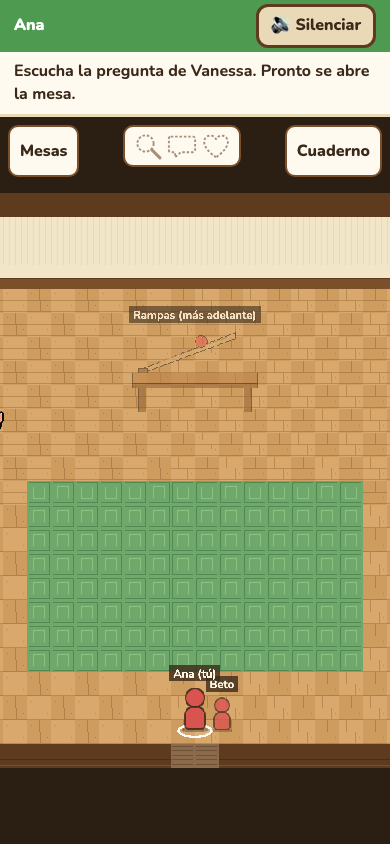
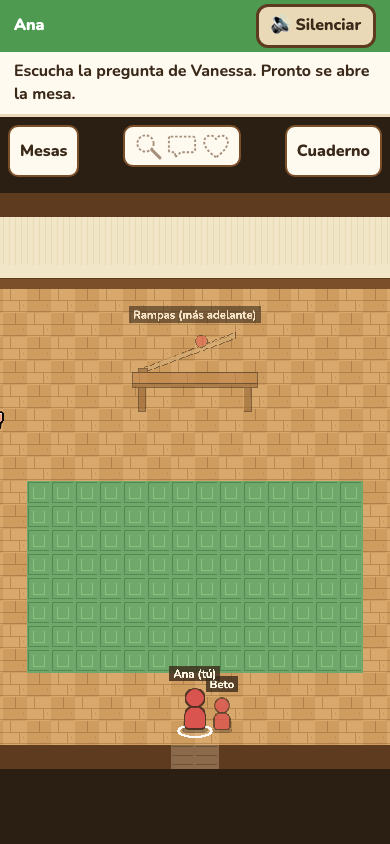
Vanessa también hace la actividad de la mesa abierta, sin lag en el telescopio
- Con una mesa abierta, la consola ofrece bajo la pregunta los mismos controles que los
  celulares (linterna, inclinación y soltar la pelota, flechas, aumentos y arrastre del visor).
- Es el experimento propio de Vanessa, local a la consola, con las reglas del dominio
  compartido y el reloj de la sala: no cuenta en el contador, no va al cuaderno y no toca
  el estado de nadie. Empieza de cero en cada mesa y desaparece al conversar.
- Corrige el lag del observatorio en la proyección: la escena dibujaba solo la vista ya
  registrada (cada ~0,8 s) en lugar de la vista local que se mueve al instante.

diff --git a/src/app/useVanessaTable.test.tsx b/src/app/useVanessaTable.test.tsx
@@ -1,0 +1,72 @@
+// @vitest-environment jsdom
+import { act, renderHook } from "@testing-library/react";
+import { describe, expect, it } from "vitest";
+import type { RampsActivityConfig } from "../../shared/contracts/config";
+import type { AdventureState } from "../../shared/contracts/state";
+import { rampDurationMs } from "../../shared/domain/models";
+import { CLOSE_ZOOM, TELESCOPE_TARGETS } from "../../shared/domain/telescope";
+import { bundle } from "../../shared/testing/drive";
+import { enEtapa, mesaAbierta } from "../testing/clientState";
+import { useVanessaTable } from "./useVanessaTable";
+
+const montar = (adv: AdventureState) => renderHook(({ a }) => useVanessaTable(a, bundle), { initialProps: { a: adv } });
+
+describe("Vanessa explora la mesa abierta en la proyección", () => {
+  it("fuera de la exploración no hay mesa que probar", () => {
+    for (const etapa of ["welcome", "preparation", "conversation", "closing"] as const) {
+      const { result } = montar(enEtapa(etapa).room.adventure);
+      expect(result.current.participant, etapa).toBeNull();
+      expect(result.current.act({ type: "shadows.sample", distanceCm: 20 }, 0).ok, etapa).toBe(false);
+    }
+  });
+
+  it("en Sombras registra sus posiciones con las reglas del juego, sin tocar la sala ni el contador", () => {
+    const d = mesaAbierta(0);
+    const antes = JSON.stringify(d.room);
+    const { result } = montar(d.room.adventure);
+    expect(result.current.participant!.view).toEqual({ kind: "activity", activityId: "sombras" });
+    act(() => void result.current.act({ type: "shadows.sample", distanceCm: 20 }, 1000));
+    act(() => void result.current.act({ type: "shadows.sample", distanceCm: 50 }, 2000));
+    const st = result.current.participant!.activities.sombras!;
+    expect(st.type === "shadows" && st.samples.map((s) => [s.distanceCm, s.counts])).toEqual([[20, true], [50, true]]);
+    expect(JSON.stringify(d.room)).toBe(antes); // la sala no cambia: es un experimento local de la consola
+    expect(result.current.act({ type: "shadows.sample", distanceCm: 500 }, 3000)).toMatchObject({ ok: false }); // mismas validaciones
+  });
+
+  it("en Rampas la pelota rueda con el reloj de la sala y la prueba termina al llegar abajo", () => {
+    const { result } = montar(mesaAbierta(1).room.adventure);
+    act(() => void result.current.act({ type: "ramps.trial.start", angleDeg: 20 }, 10_000));
+    const ramps = () => result.current.participant!.activities.rampas as { trials: Array<{ state: string }> };
+    expect(ramps().trials.map((t) => t.state)).toEqual(["running"]);
+    expect(result.current.act({ type: "ramps.trial.start", angleDeg: 25 }, 10_100)).toMatchObject({ ok: false }); // espera a que termine
+    const e = (bundle.config.activities.rampas as RampsActivityConfig).experiment;
+    const fin = 10_000 + rampDurationMs(20, e.lengthMeters, e.visualTimeScale);
+    act(() => result.current.settle(fin - 50));
+    expect(ramps().trials.map((t) => t.state)).toEqual(["running"]);
+    act(() => result.current.settle(fin + 50));
+    expect(ramps().trials.map((t) => t.state)).toEqual(["finished"]);
+  });
+
+  it("en El observatorio registra la Luna con aumento; no camina ni entra al inventor", () => {
+    const { result } = montar(mesaAbierta(2).room.adventure);
+    const { moon } = TELESCOPE_TARGETS;
+    act(() => void result.current.act({ type: "telescope.aim", x: moon.x, y: moon.y, zoom: CLOSE_ZOOM }, 1000));
+    expect((result.current.participant!.activities.cajas as { observed: string[] }).observed).toEqual(["moon"]);
+    expect(result.current.act({ type: "player.moveTo", target: { x: 600, y: 450 } }, 1000)).toMatchObject({ ok: false });
+    expect(result.current.act({ type: "adventure.returnToMap" }, 1000)).toMatchObject({ ok: false });
+  });
+
+  it("al conversar desaparece, y la mesa siguiente empieza desde su estado inicial", () => {
+    const d = mesaAbierta(0);
+    const { result, rerender } = montar(d.room.adventure);
+    act(() => void result.current.act({ type: "shadows.sample", distanceCm: 20 }, 1000));
+    d.must(d.admin({ type: "round.converse", withPending: true }), "conversar");
+    rerender({ a: d.room.adventure });
+    expect(result.current.participant).toBeNull();
+    d.must(d.admin({ type: "round.next" }), "siguiente");
+    d.must(d.admin({ type: "round.open" }), "abrir rampas");
+    rerender({ a: d.room.adventure });
+    expect(result.current.participant!.view).toEqual({ kind: "activity", activityId: "rampas" });
+    expect(Object.keys(result.current.participant!.activities)).toEqual(["rampas"]);
+  });
+});

diff --git a/src/app/useVanessaTable.ts b/src/app/useVanessaTable.ts
@@ -1,0 +1,58 @@
+import { useCallback, useEffect, useMemo, useState } from "react";
+import type { CommandResult, ParticipantAction } from "../../shared/contracts/actions";
+import type { ProjectBundle } from "../../shared/config/validateProject";
+import type { AdventureState, ParticipantState, RoomState } from "../../shared/contracts/state";
+import { reduceParticipant, settleTrials } from "../../shared/domain/participant";
+import { tableShowcase } from "./tableShowcase";
+
+/** Identidad de la persona ficticia con la que Vanessa explora: nunca coincide con la de nadie de la sala. */
+const VANESSA = "vanessa:proyeccion";
+
+/** Lo que Vanessa puede hacer en su mesa: solo los experimentos (no camina, no entra al inventor). */
+const ALLOWED: ReadonlyArray<ParticipantAction["type"]> = ["shadows.sample", "ramps.trial.start", "telescope.aim"];
+
+export interface VanessaTable {
+  /** Su estado en la mesa abierta, o `null` fuera de la exploración. Lo dibuja la proyección. */
+  participant: ParticipantState | null;
+  /** Aplica una acción con las mismas reglas que en los celulares, en el reloj de la sala (`activeMs`). */
+  act(action: ParticipantAction, activeMs: number): CommandResult;
+  /** Termina la prueba de rampa cuya hora llegó (la pelota llegó abajo). */
+  settle(activeMs: number): void;
+}
+
+/**
+ * Vanessa también explora la mesa abierta, en la proyección (15 de octubre de 2026): mueve la linterna, suelta la pelota o mira por
+ * el telescopio. Es su propio experimento, local a la consola, con las reglas del dominio compartido y el reloj de la sala: no pasa por
+ * el servidor, no cuenta en «N de M listos», no va al cuaderno y no toca el de nadie. Empieza en el estado inicial de la mesa cada vez
+ * que se abre una y desaparece al conversar.
+ */
+export function useVanessaTable(adv: AdventureState | null, bundle: Pick<ProjectBundle, "config" | "map" | "nav">): VanessaTable {
+  const { config } = bundle;
+  const initial = useMemo(() => (adv ? tableShowcase(adv, config) : null), [adv?.round.stage, adv?.round.index, config]); // eslint-disable-line react-hooks/exhaustive-deps
+  const [state, setState] = useState<{ p: ParticipantState; trial: number } | null>(initial ? { p: initial, trial: 0 } : null);
+  useEffect(() => setState(initial ? { p: initial, trial: 0 } : null), [initial]);
+
+  const act = useCallback(
+    (action: ParticipantAction, activeMs: number): CommandResult => {
+      const fail = (message: string): CommandResult => ({ ok: false, requestId: "vanessa", code: "INVALID_STEP", message });
+      if (!state || !adv) return fail("La mesa no está abierta.");
+      if (!ALLOWED.includes(action.type)) return fail("En la proyección solo se hace el experimento.");
+      const room = { adventure: { ...adv, counters: { ...adv.counters, trial: state.trial } }, participants: { [VANESSA]: state.p } } as unknown as RoomState;
+      const r = reduceParticipant(room, VANESSA, action, { config, map: bundle.map, nav: bundle.nav, activeMs });
+      if (!r.ok) return fail(r.message);
+      setState({ p: r.participant, trial: r.counters.trial });
+      return { ok: true, requestId: "vanessa", stateVersion: 0, roundVersion: 0 };
+    },
+    [state, adv, config, bundle.map, bundle.nav],
+  );
+
+  const settle = useCallback((activeMs: number) => {
+    setState((cur) => {
+      if (!cur) return cur;
+      const p = structuredClone(cur.p);
+      return settleTrials(p, activeMs) ? { ...cur, p } : cur;
+    });
+  }, []);
+
+  return { participant: state?.p ?? null, act, settle };
+}

diff --git a/scripts/e2e/rounds.ts b/scripts/e2e/rounds.ts
@@ -184,6 +184,10 @@ try {
   check(await scenesAre(admin.page, "ShadowsScene"), "al abrir la mesa, la proyección muestra la actividad de Sombras en lugar del mapa");
   const visibles = await admin.page.evaluate(() => (window as any).__PHASER_GAME__.scene.getScene("ShadowsScene").children.list.filter((o: any) => o.type === "Text" && o.visible).map((o: any) => o.text).join(" | "));
   check(!/Posiciones comparadas/.test(visibles), "la proyección muestra la mesa sin el avance de nadie");
+  // Vanessa también prueba la mesa en la proyección: su linterna es suya y no cuenta para el grupo.
+  await admin.page.getByRole("slider", { name: "Distancia de la linterna al objeto" }).fill("30");
+  await waitVisual(admin.page, `v.viewer.demo.activities.sombras.samples.length === 1`);
+  check((await admin.page.getByText("0 de 2 listos").count()) > 0 && (await visual(ana.page)).viewer.me.activities.sombras.samples.length === 0, "Vanessa mueve la linterna en la proyección: se registra en su experimento, no en el de nadie ni en el contador");
   await sleep(500);
   await shot(ana.page, "04-sombras-telefono.png");
   await shot(admin.page, "05-sombras-proyeccion-exploracion.png");
@@ -280,6 +284,10 @@ try {
   await admin.page.waitForFunction(() => (window as any).__PHASER_GAME__.scene.isActive("RampsScene"));
   await sleep(600); // la escena termina de dibujarse antes de la captura
   await shot(admin.page, "09-rampas-pregunta-proyeccion.png");
+  await admin.page.getByRole("button", { name: "Soltar la pelota" }).click();
+  await waitVisual(admin.page, `v.viewer.demo.activities.rampas.trials.length === 1`);
+  await waitVisual(admin.page, `v.viewer.demo.activities.rampas.trials[0].state === "finished"`, 12000);
+  check(true, "Vanessa suelta la pelota en la proyección y la prueba termina sola, con el reloj de la sala");
   const goTable = async (p: Page, title: string) => {
     await p.getByText("Mesas", { exact: true }).click();
     await p.getByRole("button", { name: "Ir a la mesa actual" }).click();
@@ -371,6 +379,16 @@ try {
   await ana.page.getByText("✓ Listo para conversar").waitFor();
   check((await scope(ana.page)).curtain === "open" && !(await ana.page.locator(".personal").innerText()).includes("Galaxia"), "Ana observa la Luna de cerca y el grupo de estrellas con las flechas y queda lista sin acercarse a la casa; la galaxia no se anuncia");
   check((await visual(admin.page)).viewer.demo.activities.cajas.observed.length === 0, "el telescopio de la proyección no sigue la exploración de nadie");
+  await steer(admin.page, "LL+");
+  // Sin lag: la proyección dibuja la vista local al instante, sin esperar a que la vista quieta se registre.
+  const dibujada = await admin.page.evaluate(() => {
+    const g = (window as any).__PHASER_GAME__;
+    return { escena: g.scene.getScene("TelescopeScene").currentView(), local: g.registry.get("deps").bridge.local.telescope };
+  });
+  check(JSON.stringify(dibujada.escena) === JSON.stringify(dibujada.local), "el telescopio de Vanessa sigue sus flechas al instante (la escena dibuja la vista local)");
+  await waitVisual(admin.page, `v.viewer.demo.activities.cajas.observed.includes("moon")`);
+  check((await visual(ana.page)).viewer.me.activities.cajas.observed.length === 2, "Vanessa también mira la Luna con su propio telescopio, sin cambiar el de Ana");
+  await shot(admin.page, "13b-observatorio-vanessa-proyeccion.png");
 
   // Ana arrastra el visor (lo dibuja su escena al instante).
   const box = (await ana.page.locator("canvas").first().boundingBox())!;

diff --git a/src/components/room/AdminConsole.tsx b/src/components/room/AdminConsole.tsx
@@ -1,15 +1,16 @@
-import { lazy, Suspense, useMemo, useState } from "react";
+import { lazy, Suspense, useState } from "react";
 import type { LoadedProject } from "../../config/loadProject";
 import type { RoomClientState, RoomPort } from "../../app/RoomController";
 import { useAudioSignals } from "../../app/audio/useAudioSignals";
-import { tableShowcase } from "../../app/tableShowcase";
 import { useHouseDemo } from "../../app/useHouseDemo";
+import { useVanessaTable } from "../../app/useVanessaTable";
 import { roomPath } from "../../app/useRoute";
 import { currentActivity } from "../../app/view";
 import { GroupNotes } from "../admin/GroupNotes";
 import { FinalQuestion } from "../admin/FinalQuestion";
 import { hasProjection, ProjectionBadge, ProjectionPanel } from "../admin/ProjectionPanel";
 import { RoundControls } from "../admin/RoundControls";
+import { VanessaTablePanel } from "../admin/VanessaTablePanel";
 import { ConfirmDialog } from "../ui/ConfirmDialog";
 import { QrCode } from "../ui/QrCode";
 import { ParticipantList } from "./ParticipantList";
@@ -58,8 +59,9 @@ export function AdminConsole({ project, state, controller }: Props) {
   const telescope = current?.config.type === "telescope" ? current : null;
   // La casa aparece con la frase de Freire: la idea se muestra directamente, y se queda en la proyección hasta pasar al inventor.
   const houseDemo = useHouseDemo(telescope && stage === "conversation" && adv?.round.freireShown ? telescope.id : null, telescope?.config.type === "telescope" ? telescope.config : null);
-  // Mientras se explora, la proyección muestra la escena de la mesa abierta (en su estado inicial) en lugar del mapa.
-  const showcase = useMemo(() => (adv ? tableShowcase(adv, config) : null), [stage, current?.id]); // eslint-disable-line react-hooks/exhaustive-deps
+  // Mientras se explora, la proyección muestra la mesa abierta en lugar del mapa, y Vanessa también puede hacer la actividad (su propio
+  // experimento, local a la consola: no cuenta para el grupo).
+  const vanessa = useVanessaTable(adv, project.bundle);
 
   const run = async (fn: () => Promise<unknown>) => {
     setBusy(true);
@@ -98,11 +100,18 @@ export function AdminConsole({ project, state, controller }: Props) {
           port={controller}
           camera="fit"
           label="Escena de la aventura"
-          demo={houseDemo.participant ?? showcase}
+          demo={houseDemo.participant ?? vanessa.participant}
           overlay={() => (adv ? <ProjectionBadge config={config} adv={adv} counter={state.presence?.round ?? null} /> : null)}
           // Las preguntas y la frase de Freire se proyectan junto al laboratorio, no encima de él; cuando no hay nada que proyectar, el
           // laboratorio ocupa toda la pantalla.
-          panel={() => (adv && hasProjection(config, adv) ? <ProjectionPanel config={config} adv={adv} /> : null)}
+          panel={(bridge) =>
+            adv && hasProjection(config, adv) ? (
+              <>
+                <ProjectionPanel config={config} adv={adv} />
+                {stage === "exploration" ? <VanessaTablePanel config={config} adv={adv} table={vanessa} bridge={bridge} interactive={playing} /> : null}
+              </>
+            ) : null
+          }
         />
       </Suspense>
 

diff --git a/src/components/activities/PersonalPanel.tsx b/src/components/activities/PersonalPanel.tsx
@@ -19,6 +19,8 @@ export interface PersonalPanelProps {
   busy: boolean;
   /** La mesa está abierta para explorar: fuera de la exploración los controles se detienen. */
   interactive: boolean;
+  /** Vanessa explora en la proyección: los mismos controles, sin «Volver al mapa» ni avance propio (su prueba no cuenta para el grupo). */
+  facilitator?: boolean;
 }
 
 /**
@@ -26,7 +28,7 @@ export interface PersonalPanelProps {
  * controles del experimento y si ya quedó lista para conversar; «Volver al mapa» aparece recién al completarla. Los resultados se
  * registran solos; no hay formularios, modalidades de respuesta ni botones de «anotar» o «entendido».
  */
-export function PersonalPanel({ config, adv, participant, act, setLocal, onLocal, busy, interactive }: PersonalPanelProps) {
+export function PersonalPanel({ config, adv, participant, act, setLocal, onLocal, busy, interactive, facilitator = false }: PersonalPanelProps) {
   if (participant.view.kind !== "activity") return null;
   const id = participant.view.activityId;
   const cfg = config.activities[id];
@@ -35,6 +37,19 @@ export function PersonalPanel({ config, adv, participant, act, setLocal, onLocal
   const r = readiness(st, cfg);
   const labels = config.ui.labels;
   const actions: PersonalActions = { act, setLocal, ...(onLocal ? { onLocal } : {}), busy, interactive, config };
+
+  if (facilitator) {
+    return (
+      <section className="personal" aria-labelledby="personal-title">
+        <h2 id="personal-title" className="visually-hidden">Prueba la mesa: {cfg.title}</h2>
+        <p className="hint">Prueba la mesa en la proyección: es tu propio experimento y no cuenta para el grupo.</p>
+        {!interactive ? <p className="hint" role="status">La mesa está en pausa.</p> : null}
+        {cfg.type === "shadows" && st.type === "shadows" ? <ShadowsControls cfg={cfg} st={st} a={actions} /> : null}
+        {cfg.type === "ramps" && st.type === "ramps" ? <RampsControls cfg={cfg} st={st} a={actions} /> : null}
+        {cfg.type === "telescope" && st.type === "telescope" ? <TelescopeControls cfg={cfg} st={st} a={actions} /> : null}
+      </section>
+    );
+  }
 
   return (
     <section className="personal" aria-labelledby="personal-title">

diff --git a/src/components/room/room.test.tsx b/src/components/room/room.test.tsx
@@ -772,15 +772,29 @@ describe("AdminConsole", () => {
     });
   });
 
-  it("Vanessa no tiene personaje: la consola no muestra la barra del mapa ni controles de mesa", async () => {
-    const { ui } = consola(mesaAbierta(0));
+  it("Vanessa no tiene personaje en el mapa: sin barra del mapa ni «Volver al mapa»", async () => {
+    const { ui } = consola(enEtapa("preparation"));
     const { container } = render(ui());
     await escenario();
     expect(screen.queryByText("Mesas")).toBeNull();
     expect(screen.queryByText("Cuaderno")).toBeNull(); // el «Cuaderno del grupo» de abajo es otra cosa
     expect(screen.getByText("Cuaderno del grupo (0)")).toBeTruthy();
-    expect(container.querySelector(".personal")).toBeNull();
+    expect(container.querySelector(".personal")).toBeNull(); // antes de abrir la mesa no hay nada que probar
+  });
+
+  it("con la mesa abierta Vanessa también la prueba en la proyección: sus pruebas no van al servidor ni cuentan para el grupo", async () => {
+    const { port, ui } = consola(mesaAbierta(0));
+    const { container } = render(ui());
+    await escenario();
+    expect(container.querySelector(".adventure__activity .personal")).toBeTruthy();
+    expect(screen.getByText(/es tu propio experimento y no cuenta para el grupo/)).toBeTruthy();
     expect(screen.queryByRole("button", { name: "Volver al mapa" })).toBeNull();
+    expect(screen.queryByText(/Explorando ·|Listo para conversar/)).toBeNull(); // no tiene avance propio
+    fireEvent.click(screen.getByRole("button", { name: "Alejar la linterna del objeto" }));
+    await act(async () => void (await new Promise((r) => setTimeout(r, 700)))); // el ajuste se registra al terminar
+    expect(port.act).not.toHaveBeenCalled();
+    expect(port.admin).not.toHaveBeenCalled();
+    expect(container.querySelector(".projection-badge")!.textContent).toBe("Sombras · 0 de 2 listos"); // el contador sigue igual
   });
 
   it("ofrece el código QR, reiniciar y cerrar", () => {

diff --git a/src/game/scenes/TelescopeScene.ts b/src/game/scenes/TelescopeScene.ts
@@ -125,19 +125,25 @@ export class TelescopeScene extends Phaser.Scene {
     bridge.emit("game:ready", { sceneKey: TELESCOPE_SCENE, token: this.token });
   }
 
-  /** Solo quien explora mueve su telescopio, y solo mientras la mesa está abierta. La proyección (demostración) solo mira. */
+  /** Solo quien explora mueve su telescopio, y solo mientras la mesa está abierta (en la proyección, Vanessa; la casa solo se mira). */
   private canDrag(): boolean {
     const { bridge } = getDeps(this);
-    return bridge.visual?.viewer.kind === "participant" && bridge.permissions?.canExplore === true;
+    const v = bridge.visual;
+    if (v?.viewer.kind === "participant") return bridge.permissions?.canExplore === true;
+    // Vanessa también explora en la proyección mientras la mesa está abierta (su telescopio es local a la consola).
+    return v?.viewer.kind === "projection" && v.viewer.demo !== null && v.phase === "running" && v.group.round.stage === "exploration";
   }
 
-  /** La vista local mientras se mueve; si no hay (la proyección, o al entrar), la que guardó el servidor. */
+  /**
+   * La vista local mientras se mueve (quien explora, y Vanessa en la proyección mientras la mesa está abierta): se dibuja al instante,
+   * sin esperar a que la vista quieta se registre. Si no hay (la demostración de la casa, o al entrar), la del estado.
+   */
   private currentView(): TelescopeView | null {
     const a = readActivity(this, "telescope");
     if (!a) return null;
     const { bridge } = getDeps(this);
     const exp = (a.config as TelescopeActivityConfig).experiment;
-    const local = bridge.visual?.viewer.kind === "participant" ? bridge.local.telescope : null;
+    const local = bridge.visual?.viewer.kind === "participant" || this.canDrag() ? bridge.local.telescope : null;
     return clampView(local ?? { x: a.state.x, y: a.state.y, zoom: a.state.zoom }, exp);
   }
 

diff --git a/src/components/admin/VanessaTablePanel.tsx b/src/components/admin/VanessaTablePanel.tsx
@@ -1,0 +1,46 @@
+import { useEffect } from "react";
+import type { LaboratorioConfig } from "../../../shared/contracts/config";
+import type { AdventureState } from "../../../shared/contracts/state";
+import type { VanessaTable } from "../../app/useVanessaTable";
+import type { GameBridge } from "../../game/bridge/GameBridge";
+import { PersonalPanel } from "../activities/PersonalPanel";
+
+interface Props {
+  config: LaboratorioConfig;
+  adv: AdventureState;
+  table: VanessaTable;
+  bridge: GameBridge;
+  /** La sala está en curso: en pausa los controles se detienen. */
+  interactive: boolean;
+}
+
+/**
+ * Los controles con los que Vanessa prueba la mesa abierta en la proyección (los mismos de los celulares). Su experimento vive en la
+ * consola (`useVanessaTable`) y usa el reloj de la sala: la pelota rueda y termina igual que en los celulares.
+ */
+export function VanessaTablePanel({ config, adv, table, bridge, interactive }: Props) {
+  const p = table.participant;
+  const { settle } = table;
+  // En los celulares el servidor termina cada prueba de rampa en su instante; aquí se hace al llegar esa hora en el reloj de la sala.
+  useEffect(() => {
+    const rolling = p !== null && Object.values(p.activities).some((st) => st.type === "ramps" && st.trials.some((t) => t.state === "running"));
+    if (!rolling) return;
+    const timer = setInterval(() => settle(bridge.clock.now()), 150);
+    return () => clearInterval(timer);
+  }, [p, bridge, settle]);
+
+  if (!p) return null;
+  return (
+    <PersonalPanel
+      config={config}
+      adv={adv}
+      participant={p}
+      act={async (a) => table.act(a, bridge.clock.now())}
+      setLocal={(patch) => bridge.setLocal(patch)}
+      onLocal={(cb) => bridge.on("app:local", cb)}
+      busy={false}
+      interactive={interactive}
+      facilitator
+    />
+  );
+}

diff --git a/.claude/PLAN.md b/.claude/PLAN.md
@@ -417,6 +417,7 @@ Actualizar esta tabla durante la construcción. No copiar historiales ni resulta
 | 2026-10-15 | Ajustes tras revisar el MVP | **Se retira la proyección de resultados por persona** (`present.select`/`present.clear`, notas `comparison`, `ComparisonView`, «Proyectar resultados»; las notas viejas de ese tipo no se muestran). **Se retira la demostración local** (`/demo`, `DemoView`, `DemoController`, `LocalPlayer`, `useLocalDemo`, `backup`, `preview:demo`, el aviso «Usar la demostración» y `scripts/e2e/demo.ts`); `strictmode.ts` y `tiled-direct.ts` usan ahora una sala real. **Sonido activado por defecto**: empieza con el primer gesto de la página; silenciarlo se recuerda. **Diálogo de «Conversemos» con pendientes** rediseñado («Todavía hay personas explorando», cuántas terminaron, nombres, efectos, «Conversar ahora» / «Esperar un poco más») y legible: el diálogo y las etiquetas de la barra ya no heredan el texto claro de la barra. **Colores de la entrada**: dos columnas en el celular y cuatro fichas en pantallas anchas, sin partir nombres. | Pruebas actualizadas (dominio, servidor, cliente) y e2e; ver la verificación final abajo. | — |
 | 2026-10-15 | Vanessa y Jerry v5; observatorio sin descripción a la vista | Nueva hoja `character.vanessa-jerry.stand.poses-v5` (de pie, con parpadeo; entregada en la conversación) en lugar de la v4 de caminar: frames medidos sobre la imagen, pivote bajo los zapatos de Vanessa y animación de parpadeo en `Player` (quieta con movimiento reducido). El observatorio deja de mostrar la descripción de lo que se ve («La Luna de cerca…»): queda solo para lectores de pantalla, como en Sombras. | `npm run validate:project` (frames contra la imagen), pruebas de frames, controles y e2e. | La imagen llegó como WebP desde la conversación: si existe el PNG original, conviene reemplazarla por él. |
 | 2026-10-15 | Freire antes de avanzar; telescopio sin atajos; galaxia | En la conversación, «Abrir siguiente mesa» / «Pasar al inventor» aparece recién al mostrar la frase de Freire, en lugar de ese botón (`RoundControls`; `scripts/rehearsal/room.ts` lo muestra antes de avanzar). El telescopio pierde «Luna», «Estrellas», «Horizonte» y «Volver al cielo»: solo flechas, aumentos y arrastre. Nueva **galaxia** en espiral en el cielo (`TELESCOPE_TARGETS.galaxy`): se registra al centrarla de cerca como hallazgo, no cuenta para «listo» (`REQUIRED_TARGETS`) y no se anuncia hasta encontrarla. | Pruebas de dominio, validación (la galaxia debe poder centrarse), cuaderno y controles; e2e de rondas con rutas de flechas calculadas con el dominio (Beto encuentra la galaxia). | — |
+| 2026-10-15 | Vanessa hace la actividad | Con una mesa abierta, Vanessa usa en la proyección los mismos controles que los celulares (`src/app/useVanessaTable.ts` con `reduceParticipant` y el reloj de la sala; `src/components/admin/VanessaTablePanel.tsx`; `PersonalPanel` con `facilitator`; el visor se arrastra en la proyección). Corrige el lag del observatorio en la proyección: la escena dibujaba solo la vista registrada (cada ~0,8 s) y no la local. CA-59. | `useVanessaTable.test.tsx`, prueba de la consola y e2e de rondas (linterna, pelota y telescopio de Vanessa sin tocar a nadie; la escena sigue las flechas al instante). | — |
 | 2026-10-15 | Sonido al máximo en el celular | El celular de quien juega empieza con el sonido activado y al volumen máximo (`src/app/audio/preferences.ts`: valor por defecto según el dispositivo; clave `v2` para ignorar lo guardado en los ensayos). | `preferences.test.ts` y pruebas del audio. | — |
 | 2026-10-15 | Volver al mapa al terminar; la flor | Terminada la aventura se aceptan `adventure.returnToMap` y entrar al inventor (`shared/domain/room.ts`); quien juega ve el inventor solo si está dentro (`sceneKeys.ts`); «Volver al mapa» siempre en el panel del inventor terminado y «Ir al inventor» disponible. `confirmFinal` conservaba solo la pregunta final y perdía `inventor.open`: corregido. La flor (`margaritas-izquierda`) declara `tapEvent: flower.tap` en el TMJ (y en la clase `Decoration` del proyecto de Tiled); `LaboratoryScene` la reconoce sin mover al personaje, `Player.wonder()` dibuja los «?» y `useAudioSignals.play` suena `lab.audio.lava` (`public/assets/audio/lava.wav`, convertido del FLAC entregado). CA-57 y CA-58. | Dominio, escenas, validación (incluido el TMJ exportado por Tiled), audio y e2e de rondas (la flor suena y muestra los «?»; Ana vuelve al mapa, entra y sale del inventor terminado). | — |
 | 2026-10-15 | La actividad en la proyección | Mientras se explora, la proyección muestra la escena de la mesa abierta en lugar del mapa (`src/app/tableShowcase.ts`: una persona ficticia con el estado inicial de la mesa, como la demostración de la casa); las escenas ocultan en la proyección los rótulos de avance personal. CA-56. | `src/app/tableShowcase.test.ts`, pruebas de escenas y e2e de rondas (la proyección pasa a cada mesa al abrirla, no sigue a nadie y vuelve al laboratorio al conversar). | — |

diff --git a/README.md b/README.md
@@ -28,7 +28,8 @@ los textos son de prototipo. Detalle y evidencias en PLAN §5.
 1. Vanessa crea la sala; las personas entran con el QR (nombre y color). Cada una aparece como una
    silueta con su nombre encima en el laboratorio compartido.
 2. **Preparación:** al comenzar, la proyección muestra solo la pregunta de entrada («¿Recuerdan algo que hayan aprendido porque les dio
-   curiosidad?»); las personas pueden caminar. **Abrir mesa:** la proyección muestra la actividad de la mesa con su pregunta al lado, y todas pueden
+   curiosidad?»); las personas pueden caminar. **Abrir mesa:** la proyección muestra la actividad de la mesa con su pregunta al lado (Vanessa también
+   puede hacerla ahí, sin que cuente para el grupo), y todas pueden
    abrirla (menú «Mesas → Ir a la mesa actual» o tocándola en el mapa) y explorar a su ritmo; los resultados se registran solos y cada
    persona queda «Lista para conversar» al cumplir el criterio de la mesa (recién entonces puede volver al mapa). Vanessa ve «N de M listos».
 3. **Conversemos:** se cierran las pruebas (las que ruedan se cancelan), los celulares dicen «Ya exploramos: deja los controles y mira la
